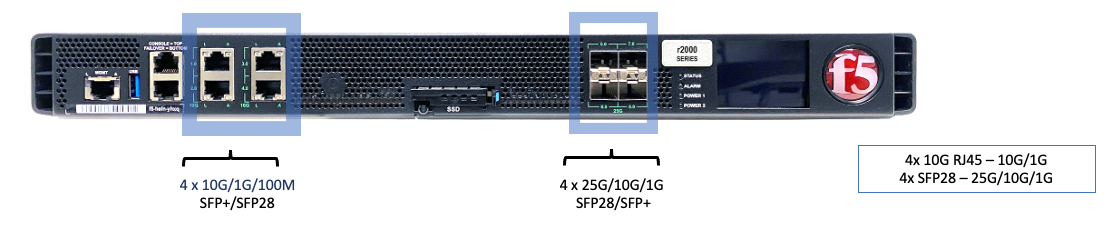
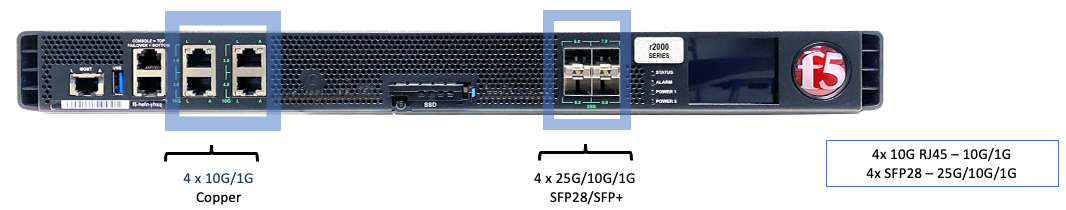
2k

diff --git a/docs/rseries_appliances.rst b/docs/rseries_appliances.rst
@@ -25,7 +25,7 @@ Note that adjacent highspeed (40Gb / 100Gb) ports (**1.0** & **2.0** or **11.0**
   :align: center
   :scale: 100%
 
-The r10000 Series appliance has a single 10Gb Ethernet out-of-band management port, a serial console port, and a serial (hard wired) failover port which is not utilized or supported. A USB3.0 port is also made avaiable for recovering/reinstalling system software. LEDs will change color to indicate different port speeds, and high level LEDs provide Status, Alarm, and Power Supply Status. The appliance also has an LCD panel.
+The r10000 Series appliance has a single 10Gb Ethernet out-of-band management port, a serial console port, and a serial (hard wired) failover port which is not utilized or supported. A USB3.0 port is also made available for recovering/reinstalling system software. LEDs will change color to indicate different port speeds, and high level LEDs provide Status, Alarm, and Power Supply Status. The appliance also has an LCD panel.
 
 .. image:: images/rseries_appliances/image1c.png
   :align: center
@@ -71,7 +71,7 @@ Note that adjacent highspeed (40Gb / 100Gb) ports (**1.0** & **2.0**) must be co
   :align: center
   :scale: 100%
 
-The r5000 Series unit has a single 10Gb Ethernet out-of-band management port and a serial console port, and a serial (hard wired) failover port which is not utilized or supported. A USB3.0 port is also made avaiable for recovering/reinstalling system software. LEDs will change color to indicate different port speeds, and high level LEDs provide Status, Alarm, and Power Supply Status. The appliance also has an LCD panel.
+The r5000 Series unit has a single 10Gb Ethernet out-of-band management port and a serial console port, and a serial (hard wired) failover port which is not utilized or supported. A USB3.0 port is also made available for recovering/reinstalling system software. LEDs will change color to indicate different port speeds, and high level LEDs provide Status, Alarm, and Power Supply Status. The appliance also has an LCD panel.
 
 .. image:: images/rseries_appliances/image2c.png
   :align: center
@@ -100,7 +100,7 @@ In the back of the HVDC (High Voltage DC)  Power Model are 2 power supplies and 
 r4000 Series - r4600 / r4800
 ============================
 
-The r4000 Series is a 1RU appliance, that has 2 different licensing options that unlock more CPU resources. The r4600 is the base system, and Pay-as-you-Grow licensing options exist to upgrade to the r4800 model. At intial ship there is an AC power version of the appliance and DC power versions will be made available in the future. The r4000 platform has 16 physical CPU cores and hyperthreading is not used. No CPU’s are dedicated to the F5OS platform layer which is different than the mid-range and high-end rSeries appliances. Additionally, some CPU’s are disabled on the r4600 model to provide different levels of performance which can be unlocked through PAYG licensing. The system also supports 128GB of RAM, and has a single 480GB SSD. There is no option for dual/redundant disk on the r4000, you'll need to to the r10000 if dual/redundant disk is a requirement.  Below is a picture of the r4000 hardware appliance which can be licensed as an r4600 or r4800. Its the same hardware platform for these 2 software licesing options.
+The r4000 Series is a 1RU appliance, that has 2 different licensing options that unlock more CPU resources. The r4600 is the base system, and Pay-as-you-Grow licensing options exist to upgrade to the r4800 model. At intial ship there is an AC power version of the appliance and DC power versions will be made available in the future. The r4000 platform has 16 physical CPU cores and hyperthreading is not used. No CPU’s are dedicated to the F5OS platform layer which is different than the mid-range and high-end rSeries appliances. Additionally, some CPU’s are disabled on the r4600 model to provide different levels of performance which can be unlocked through PAYG licensing. The system also supports 128GB of RAM, and has a single 480GB SSD. There is no option for dual/redundant disk on the r4000, you'll need to to the r10000 if dual/redundant disk is a requirement.  Below is a picture of the r4000 hardware appliance which can be licensed as an r4600 or r4800. Its the same hardware platform for these 2 software licensing options.
 
 .. image:: images/rseries_appliances/image3.png
   :align: center
@@ -112,7 +112,7 @@ The r4000 Series appliance has 4 x 10Gb/1Gb copper ports as well as 4 x 25Gb/10G
   :align: center
   :scale: 70%
 
-The r4000 Series unit has a single 10Gb Ethernet out-of-band management port and a serial console port, and a serial (hard wired) failover port which is not utilized or supported. A USB3.0 port is also made avaiable for recovering/reinstalling system software. LEDs will change color to indicate different port speeds, and high level LEDs provide Status, Alarm, and Power Supply Status. The appliance also has an LCD panel.
+The r4000 Series unit has a single 10Gb Ethernet out-of-band management port and a serial console port, and a serial (hard wired) failover port which is not utilized or supported. A USB3.0 port is also made available for recovering/reinstalling system software. LEDs will change color to indicate different port speeds, and high level LEDs provide Status, Alarm, and Power Supply Status. The appliance also has an LCD panel.
 
 .. image:: images/rseries_appliances/image3b.png
   :align: center
@@ -140,19 +140,19 @@ In the back of the HVDC (High Voltage DC)  Power Model are 2 power supplies and 
 r2000 Series - r2600 / r2800
 ============================
 
-The r2000 Series is a 1RU appliance, that has 2 different licensing options that unlock more CPU resources. The r2600 is the base system, and Pay-as-you-Grow licensing options exist to upgrade to the r2800 model. At intial ship there is an AC power version of the appliance and DC power versions will be made available in the future. The r2000 platform has 8 physical CPU cores and hyperthreading is not used. No CPU’s are dedicated to the F5OS platform layer which is different than the mid-range and high-end rSeries appliances. Additionally, some CPU’s are disabled on the r2600 model to provide different levels of performance which can be unlocked through PAYG licensing. The system also supports 64GB of RAM, and has a single 480GB SSD.
+The r2000 Series is a 1RU appliance, that has 2 different licensing options that unlock more CPU resources. The r2600 is the base system, and Pay-as-you-Grow licensing options exist to upgrade to the r2800 model. At intial ship there is an AC power version of the appliance and DC power versions will be made available in the future. The r2000 platform has 8 physical CPU cores and hyperthreading is not used. No CPU’s are dedicated to the F5OS platform layer which is different than the mid-range and high-end rSeries appliances. Additionally, some CPU’s are disabled on the r2600 model to provide different levels of performance which can be unlocked through PAYG licensing. The system also supports 64GB of RAM, and has a single 480GB SSD. There is no option for dual/redundant disk on the r2000, you'll need to to the r10000 if dual/redundant disk is a requirement.  Below is a picture of the r2000 hardware appliance which can be licensed as an r2600 or r2800. Its the same hardware platform for these 2 software licensing options.
 
 .. image:: images/rseries_appliances/image4.png
   :align: center
   :scale: 160%
 
-The r2000 Series appliance has 4 x 10Gb/1Gb copper ports as well as 4 x 25Gb/10Gb/1Gbports that are SFP+/SFP28.
+The r2000 Series appliance has 4 x 10Gb/1Gb copper ports as well as 4 x 25Gb/10Gb/1Gbports that support SFP+/SFP28 optics.
 
 .. image:: images/rseries_appliances/image4a.png
   :align: center
   :scale: 70%
 
-The r2000 Series unit has a single 10Gb Ethernet out-of-band management port and a serial console port. A USB3.0 port is also made avaiable for recovering/reinstalling system software. LEDs will change color to indicate different port speeds, and high level LEDs provide Status, Alarm, and Power Supply Status. The appliance also has an LCD panel.
+The r2000 Series unit has a single 10Gb Ethernet out-of-band management port and a serial console port, and a serial (hard wired) failover port which is not utilized or supported. A USB3.0 port is also made available for recovering/reinstalling system software. LEDs will change color to indicate different port speeds, and high level LEDs provide Status, Alarm, and Power Supply Status. The appliance also has an LCD panel.
 
 .. image:: images/rseries_appliances/image4b.png
   :align: center
